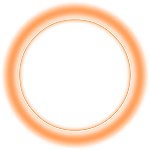
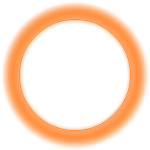
Rings of light keep their colour instead of burning white
Claude-Session: https://claude.ai/code/session_013qHCmXKDso2recu8Ab4qNb

Changed region(s): [[0.0533, 0.0533, 0.9333, 0.9333]]

diff --git a/tools/build-fx.py b/tools/build-fx.py
@@ -84,7 +84,7 @@ FX = {
 # HD effects: (pack, file, options). `grid` [cols, rows] cuts a flipbook (`n` frames of it),
 # `files` is a folder of numbered frames, otherwise the file is one texture the game animates by
 # moving, turning, growing and fading it. `size` is the longest side in strip pixels, `step` keeps every so many frames, `tint`
-# colours a white texture, `lum` turns a black-backed (additive) image into one with alpha, `lift` turns dark smoke pale, `add`
+# colours a white texture (`white` caps how white its dense parts burn), `lum` turns a black-backed (additive) image into one with alpha, `lift` turns dark smoke pale, `add`
 # marks it for additive drawing (light that brightens what's under it): only white, steel and cold
 # colours, since added onto the game's light pastel maps red turns pink and gold turns white.
 STEEL, GOLD, RED, BLOOD, EMBER = '#5fa8ff', '#ffb52e', '#ff3b2e', '#c4001f', '#ff7a1a'
@@ -132,15 +132,15 @@ HD = {
     'hdraysgold': ('brackeys', 'particles/alpha/effect_02_a.png', {'size': 220, 'tint': GOLD}),
     'hdraysred': ('brackeys', 'particles/alpha/effect_02_a.png', {'size': 220, 'tint': RED}),
     'hdrayssteel': ('brackeys', 'particles/alpha/effect_03_a.png', {'size': 220, 'tint': STEEL, 'add': True}),
-    'hdring': ('brackeys', 'particles/alpha/circle_02_a.png', {'size': 200, 'tint': STEEL, 'add': True}),
-    'hdringgold': ('brackeys', 'particles/alpha/circle_02_a.png', {'size': 200, 'tint': GOLD}),
-    'hdringred': ('brackeys', 'particles/alpha/circle_02_a.png', {'size': 200, 'tint': RED}),
-    'hdringarcane': ('brackeys', 'particles/alpha/circle_02_a.png', {'size': 200, 'tint': '#b05cff', 'add': True}),
-    'hdringice': ('brackeys', 'particles/alpha/circle_02_a.png', {'size': 200, 'tint': '#3fd2ff', 'add': True}),
-    'hdringfire': ('brackeys', 'particles/alpha/circle_02_a.png', {'size': 200, 'tint': EMBER}),
-    'hdringpoison': ('brackeys', 'particles/alpha/circle_02_a.png', {'size': 200, 'tint': '#5fe03a'}),
-    'hdringwind': ('brackeys', 'particles/alpha/circle_02_a.png', {'size': 200, 'tint': '#22d68a', 'add': True}),
-    'hdringshadow': ('brackeys', 'particles/alpha/circle_02_a.png', {'size': 200, 'tint': '#7a3cff', 'add': True}),
+    'hdring': ('brackeys', 'particles/alpha/circle_02_a.png', {'size': 200, 'tint': STEEL, 'white': 0.35, 'add': True}),
+    'hdringgold': ('brackeys', 'particles/alpha/circle_02_a.png', {'size': 200, 'tint': GOLD, 'white': 0.35}),
+    'hdringred': ('brackeys', 'particles/alpha/circle_02_a.png', {'size': 200, 'tint': RED, 'white': 0.35}),
+    'hdringarcane': ('brackeys', 'particles/alpha/circle_02_a.png', {'size': 200, 'tint': '#b05cff', 'white': 0.35, 'add': True}),
+    'hdringice': ('brackeys', 'particles/alpha/circle_02_a.png', {'size': 200, 'tint': '#3fd2ff', 'white': 0.35, 'add': True}),
+    'hdringfire': ('brackeys', 'particles/alpha/circle_02_a.png', {'size': 200, 'tint': EMBER, 'white': 0.35}),
+    'hdringpoison': ('brackeys', 'particles/alpha/circle_02_a.png', {'size': 200, 'tint': '#5fe03a', 'white': 0.35}),
+    'hdringwind': ('brackeys', 'particles/alpha/circle_02_a.png', {'size': 200, 'tint': '#22d68a', 'white': 0.35, 'add': True}),
+    'hdringshadow': ('brackeys', 'particles/alpha/circle_02_a.png', {'size': 200, 'tint': '#7a3cff', 'white': 0.35, 'add': True}),
     'hdbeam': ('brackeys', 'particles/alpha/trace_07_a.png', {'size': 220, 'tint': GOLD}),
     'hdbeamsteel': ('brackeys', 'particles/alpha/trace_07_a.png', {'size': 220, 'tint': STEEL, 'add': True}),
     'hdbeamred': ('brackeys', 'particles/alpha/trace_07_a.png', {'size': 220, 'tint': RED}),
@@ -338,7 +338,7 @@ def glow_frames(shape, o, seed):
     return frames
 
 
-def tint(img, colour):
+def tint(img, colour, white=1.0):
     # A white texture coloured like light: the colour where it's thin, white where it's dense.
     r0, g0, b0 = (int(colour[i:i + 2], 16) for i in (1, 3, 5))
     px = img.load()
@@ -349,7 +349,7 @@ def tint(img, colour):
                 continue
             d = (a / 255) * (max(r, g, b) / 255)
             k = max(0, d - 0.55) / 0.45
-            k = k * k
+            k = k * k * white
             px[x, y] = (round(r0 + (255 - r0) * k), round(g0 + (255 - g0) * k), round(b0 + (255 - b0) * k), min(255, round(a * 1.15)))
     return img
 
@@ -421,7 +421,7 @@ def build(base):
         elif 'light' in o and hd:
             frames = [recolour_light(f, o['light']) for f in frames]
         if 'tint' in o:
-            frames = [tint(f, o['tint']) for f in frames]
+            frames = [tint(f, o['tint'], o.get('white', 1.0)) for f in frames]
         boxes = [f.getbbox() for f in frames]
         x0 = min(b[0] for b in boxes)
         y0 = min(b[1] for b in boxes)
